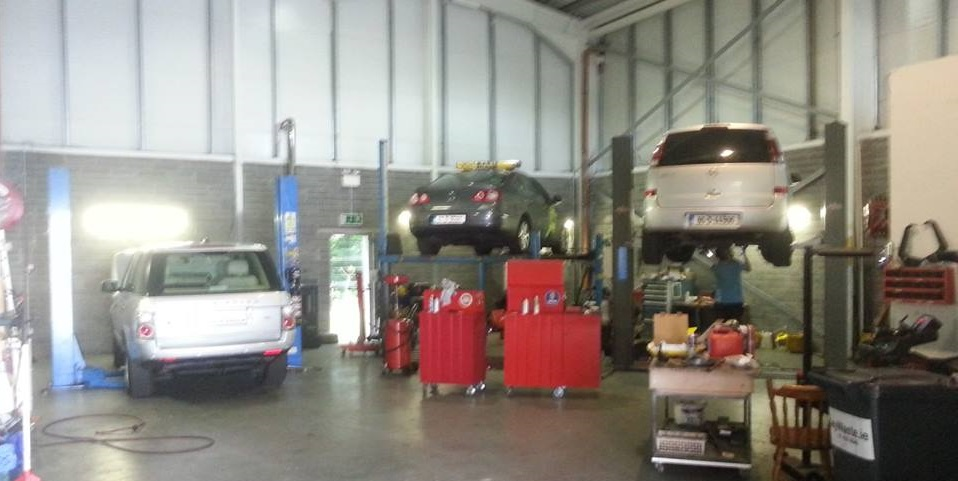
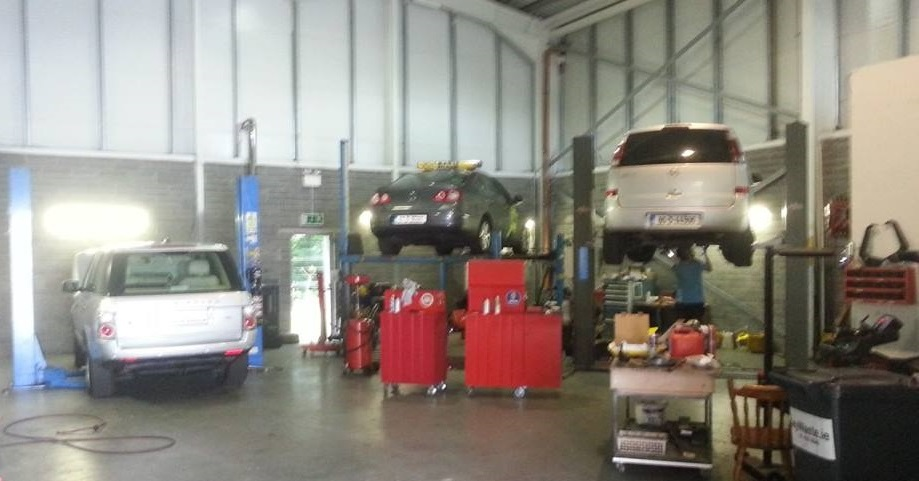
add Picture element consisting of 2 different size photos

diff --git a/index.html b/index.html
@@ -23,7 +23,7 @@
     <link href="fonts/IECompatibility/ie7.css" rel="stylesheet" />
     <!--<![endif]-->
 
-    
+
 
 </head>
 
@@ -65,8 +65,36 @@
 
                     <div class="col-xs-12 col-sm-7 col-md-8 col-lg-8">
                         <div id="groupPhoto">
-                            <img src="images/workShop.jpg" />
+                            <picture>
+                                <source media=" (min-width:900px)"
+                                        srcset="images/workShop-wide.jpg">
+                                <!--
+                <source media="(min-width:992px)"
+                        srcset="images/sheep/1280px-wide.jpg 1280w,
+                            images/sheep/1024px-wide.jpg 1024w"
+                        sizes="calc( (.6666 * (100vw - 22px) ))" />
+
+                <source media="(min-width:768px)"
+                        srcset="images/sheep/0768px-wide.jpg 768w"
+                        sizes="calc( (.5833 * (100vw - 18px) ))" />
+
+                <source media="(min-width:480px)"
+                        srcset="images/sheep/0480px-wide.jpg 480w" />
+
+                <source media="(min-width:321px)"
+                        type="images/webp"
+                        srcset="images/sheep/0480px-wide.webp 480w" />-->
+                                <!--Default-->
+                                <source srcset="images/workShop.jpg">
+
+
+                                <!--Fall back if above not supported-->
+
+                                <img srcset="images/workShop.jpg"
+                                     alt=" Photo of the inside of the Metro Auto Services car garage.">
+                            </picture>
                         </div>
+
                         <div id="welcome">
                             <span id="welcomeHeading">Welcome</span> to Metro Auto Services.
                             We service all makes and models of cars, using only the highest quality manufacturer approved parts,
@@ -74,7 +102,6 @@
                             <a data-toggle="collapse" href="#collapseExample" aria-expanded="false" aria-controls="collapseExample">
                                 More...
                             </a>
-
 
                             <div class="collapse" id="collapseExample">
                                 <p>
@@ -93,77 +120,79 @@
                         </div>
                     </div>
 
-                    <div>
-                        <div class="col-xs-12 col-sm-5 col-md-4 col-lg-4 contactFields">
+                    <div class="col-xs-12 col-sm-5 col-md-4 col-lg-4 contactFields">
 
-                            <div class="media">
-                                <div class="media-left">
-                                    <a href="tel:+353863927014"><span class="media-object icon-sosa landline"></span></a>
-                                </div>
-                                <div class="media-body">
-                                    Tel: <a href="tel:+35318139955"><span>01 813 9955</span></a>
+                        <div class="media">
+                            <div class="media-left">
+                                <a href="tel:+353863927014"><span class="media-object icon-sosa landline"></span></a>
+                            </div>
+                            <div class="media-body">
+                                Tel: <a href="tel:+35318139955"><span>01 813 9955</span></a>
+                            </div>
+                        </div>
+
+                        <div class="media">
+                            <div class="media-left">
+                                <a href="tel:+353863881118"><span class="media-object icon-sosa smartphone"></span></a>
+                            </div>
+                            <div class="media-body">
+                                Shane: <a href="tel:+353863881118"><span>086 388 1118</span></a>
+                            </div>
+                        </div>
+
+                        <div class="media">
+                            <div class="media-left">
+                                <a href="tel:+353874173740"><span class="media-object icon-sosa smartphone"></span></a>
+                            </div>
+                            <div class="media-body">
+                                Mark: <a href="tel:+353874173740"><span>087 417 3740</span></a>
+                            </div>
+                        </div>
+
+                        <div class="media">
+                            <div class="media-left">
+                                <a href="#">
+                                    <span class="media-object icon-sosa envelope"></span>
+                                </a>
+                            </div>
+                            <div class="media-body">
+                                Email:<a href="mailto:info@metroauto.ie"><span> info@metroauto.ie </span></a>
+                            </div>
+                        </div>
+
+                        <div class="media">
+                            <div class="media-left">
+                                <a href="#">
+                                    <span class="media-object icon-sosa clock"></span>
+                                </a>
+                            </div>
+                            <div class="media-body">
+                                <div class="openingHours">
+                                    Open: Monday to Friday 8.30-17.00, Saturday 9-2 by appointment only
                                 </div>
                             </div>
+                        </div>
 
-                            <div class="media">
-                                <div class="media-left">
-                                    <a href="tel:+353863881118"><span class="media-object icon-sosa smartphone"></span></a>
-                                </div>
-                                <div class="media-body">
-                                    Shane: <a href="tel:+353863881118"><span>086 388 1118</span></a>
-                                </div>
+                        <div class="media ">
+                            <div class="media-left">
+                                <a target="_blank" href="https://www.google.com/maps/place/Metropoint+Business+Park,+Swords,+Co.+Dublin,+Ireland/@53.4377341,-6.2263593,15z/data=!4m7!1m4!3m3!1s0x48671053ded1c005:0x729077570a85a0b0!2sMetropoint+Business+Park,+Swords,+Co.+Dublin,+Ireland!3b1!3m1!1s0x48671053ded1c005:0x729077570a85a0b0">
+                                    <span class="media-object icon-sosa map"></span>
+                                </a>
                             </div>
-
-                            <div class="media">
-                                <div class="media-left">
-                                    <a href="tel:+353874173740"><span class="media-object icon-sosa smartphone"></span></a>
-                                </div>
-                                <div class="media-body">
-                                    Mark: <a href="tel:+353874173740"><span>087 417 3740</span></a>
-                                </div>
-                            </div>
-
-                            <div class="media">
-                                <div class="media-left">
-                                    <a href="#">
-                                        <span class="media-object icon-sosa envelope"></span>
-                                    </a>
-                                </div>
-                                <div class="media-body">
-                                    Email:<a href="mailto:info@metroauto.ie"><span> info@metroauto.ie </span></a>
-                                </div>
-                            </div>
-
-                            <div class="media">
-                                <div class="media-left">
-                                    <a href="#">
-                                        <span class="media-object icon-sosa clock"></span>
-                                    </a>
-                                </div>
-                                <div class="media-body">
-                                    <div class="openingHours">
-                                        Open: Monday to Friday 8.30-17.00, Saturday 9-2 by appointment only
-                                    </div>
-                                </div>
-                            </div>
-
-                            <div class="media ">
-                                <div class="media-left">
+                            <div class="media-body">
+                                <div class="openingHours">
                                     <a target="_blank" href="https://www.google.com/maps/place/Metropoint+Business+Park,+Swords,+Co.+Dublin,+Ireland/@53.4377341,-6.2263593,15z/data=!4m7!1m4!3m3!1s0x48671053ded1c005:0x729077570a85a0b0!2sMetropoint+Business+Park,+Swords,+Co.+Dublin,+Ireland!3b1!3m1!1s0x48671053ded1c005:0x729077570a85a0b0">
-                                        <span class="media-object icon-sosa map"></span>
+                                        Unit C1, Metropoint Business Park, Kettles Lane, Swords, Co. Dublin
                                     </a>
-                                </div>
-                                <div class="media-body">
-                                    <div class="openingHours">
-                                        <a target="_blank" href="https://www.google.com/maps/place/Metropoint+Business+Park,+Swords,+Co.+Dublin,+Ireland/@53.4377341,-6.2263593,15z/data=!4m7!1m4!3m3!1s0x48671053ded1c005:0x729077570a85a0b0!2sMetropoint+Business+Park,+Swords,+Co.+Dublin,+Ireland!3b1!3m1!1s0x48671053ded1c005:0x729077570a85a0b0">
-                                            Unit C1, Metropoint Business Park, Kettles Lane, Swords, Co. Dublin
-                                        </a>
-                                    </div>
                                 </div>
                             </div>
                         </div>
                     </div><!--/contactFields-->
-                </div> <!--/ROW 1-->
+
+                       
+
+              
+                    </div> <!--/ROW 1-->
                 <!------------------- ROW 2---------------->
                 <div class="row">
 
@@ -179,6 +208,7 @@
                             <div id="servicesSubHeading">
                                 We specialise in <span id="diagnostics"> diagnostics, </span>servicing, repair &amp replacements, including:
                             </div>
+
 
                             <div class="row">
 
@@ -409,62 +439,62 @@
                             </div><!--/Embedded Services Row-->
                         </div><!--/services-->
 
-                    </div><!--/Row 2: Column 1-->
+                </div><!--/Row 2: Column 1-->
 
-                    <div class="col-xs-12 col-sm-5 col-md-4 col-lg-4" id="faceBookColumn">
-                        <!-- Row 2: Column 2-->
+                <div class="col-xs-12 col-sm-5 col-md-4 col-lg-4" id="faceBookColumn">
+                    <!-- Row 2: Column 2-->
 
-                        <div id="facebookHeading">
-                            <br />
-                            <a href="https://www.facebook.com/pages/Metro-auto-services/371621519580991">
-                                <img src="images/FB_FindUsOnFacebook-114.png" />
-                            </a>
-                            <br />
-                            <br />
-                        </div><!--facebookHeading-->
-
-                        <div id="fb-root">
-                        </div><!--fb-root-->
-
-                        <script>
-                            (function (d, s, id) {
-                                var js, fjs = d.getElementsByTagName(s)[0];
-                                if (d.getElementById(id)) return;
-                                js = d.createElement(s); js.id = id;
-                                js.src = "//connect.facebook.net/en_US/sdk.js#xfbml=1&version=v2.3";
-                                fjs.parentNode.insertBefore(js, fjs);
-                            }(document, 'script', 'facebook-jssdk'));
-                        </script>
-
-                        <div class="fb-page" data-href="https://www.facebook.com/pages/Metro-auto-services/371621519580991" data-hide-cover="false" data-show-facepile="true" data-show-posts="true" data-height="825px" data-width="100%">
-                            <div class="fb-xfbml-parse-ignore">
-                                <blockquote cite="https://www.facebook.com/pages/Metro-auto-services/371621519580991">
-                                    <a href="https://www.facebook.com/pages/Metro-auto-services/371621519580991">Metro auto services</a>
-                                </blockquote>
-                            </div>
-                        </div>
-
-                        <!--
-                        <h4>tel: 01 813 9955 </h4>
-                        <h4>email: info@metroauto.ie</h4>
+                    <div id="facebookHeading">
                         <br />
-
-                        <div id="testimonials">
-                            "Service couldn't have been better from the guys at Metro Auto"
-                            <br />
-                            <span class="customerName">John Murphy, Roganstown, Swords...more reviews</span>
-                        </div>
+                        <a href="https://www.facebook.com/pages/Metro-auto-services/371621519580991">
+                            <img src="images/FB_FindUsOnFacebook-114.png" />
+                        </a>
                         <br />
+                        <br />
+                    </div><!--facebookHeading-->
+
+                    <div id="fb-root">
+                    </div><!--fb-root-->
+
+                    <script>
+                        (function (d, s, id) {
+                            var js, fjs = d.getElementsByTagName(s)[0];
+                            if (d.getElementById(id)) return;
+                            js = d.createElement(s); js.id = id;
+                            js.src = "//connect.facebook.net/en_US/sdk.js#xfbml=1&version=v2.3";
+                            fjs.parentNode.insertBefore(js, fjs);
+                        }(document, 'script', 'facebook-jssdk'));
+                    </script>
+
+                    <div class="fb-page" data-href="https://www.facebook.com/pages/Metro-auto-services/371621519580991" data-hide-cover="false" data-show-facepile="true" data-show-posts="true" data-height="825px" data-width="100%">
+                        <div class="fb-xfbml-parse-ignore">
+                            <blockquote cite="https://www.facebook.com/pages/Metro-auto-services/371621519580991">
+                                <a href="https://www.facebook.com/pages/Metro-auto-services/371621519580991">Metro auto services</a>
+                            </blockquote>
+                        </div>
+                    </div>
+
+                    <!--
+                    <h4>tel: 01 813 9955 </h4>
+                    <h4>email: info@metroauto.ie</h4>
+                    <br />
+
+                    <div id="testimonials">
+                        "Service couldn't have been better from the guys at Metro Auto"
+                        <br />
+                        <span class="customerName">John Murphy, Roganstown, Swords...more reviews</span>
+                    </div>
+                    <br />
 
 
-                        <a class="twitter-timeline" href="https://twitter.com/BWebDotIE" data-widget-id="587761078261657601">Tweets by @BWebDotIE</a>
-                            -->
+                    <a class="twitter-timeline" href="https://twitter.com/BWebDotIE" data-widget-id="587761078261657601">Tweets by @BWebDotIE</a>
+                        -->
 
-                    </div><!--  /Column 2, of ROW 2-->
+                </div><!--  /Column 2, of ROW 2-->
 
-                </div> <!--/Row 2 -->
-            </div><!-- /.container-fluid -->
-        </div><!--/allContentUnderNavBar-->
+            </div> <!--/Row 2 -->
+        </div><!-- /.container-fluid -->
+    </div><!--/allContentUnderNavBar-->
     </div><!--/entirePage-->
     <script src="http://ajax.aspnetcdn.com/ajax/jQuery/jquery-2.1.1.min.js"></script>
     <script src="https://maxcdn.bootstrapcdn.com/bootstrap/3.3.2/js/bootstrap.min.js"></script>

diff --git a/css/custom.css b/css/custom.css
@@ -318,3 +318,16 @@ a {
     padding-left: 5px;
     border: 1px solid #D9E0E8;
 }
+
+#faceBookColumn{
+
+}
+
+.contactFields{
+
+}
+
+.row{
+
+
+}
